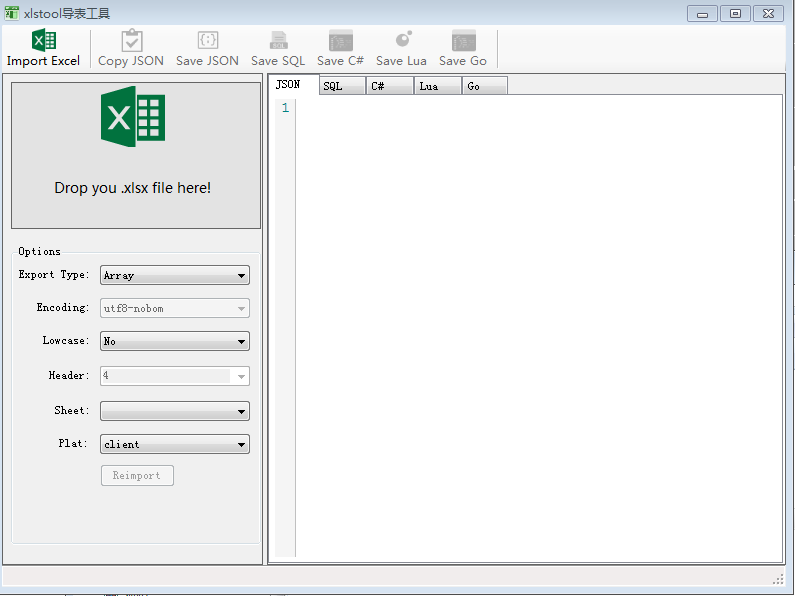
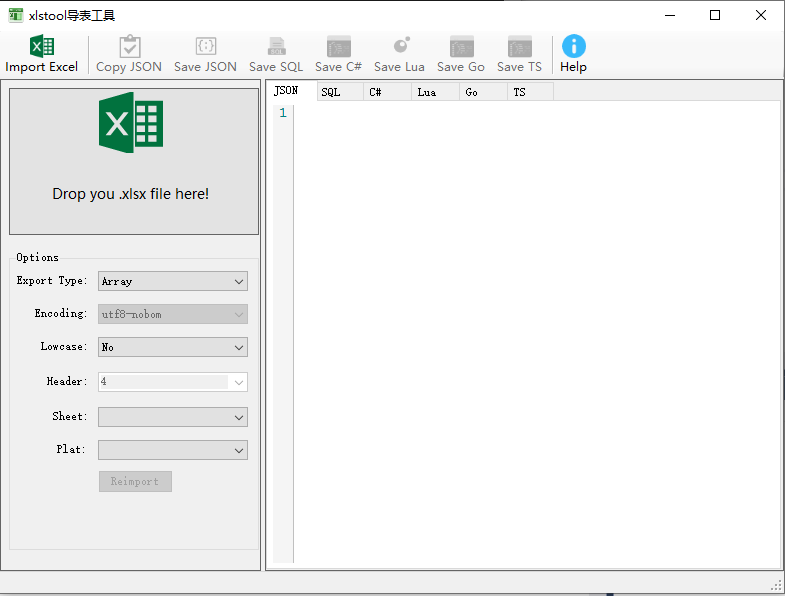
【Excel】update xlstool

Changed region(s): [[0.0, 0.0, 1.0, 1.0], [0.0611, 0.302, 0.2752, 0.3322], [0.0611, 0.7248, 0.0917, 0.755]]

diff --git a/_posts/2019-12-22-Excel导表工具Json_Sql_C#_Lua_Go_TypeScript.md b/_posts/2019-12-22-Excel导表工具Json_Sql_C#_Lua_Go_TypeScript.md
@@ -12,6 +12,8 @@ categories: [Tool]
 
 [项目github]( https://github.com/JumboWu/xlstool): [https://github.com/JumboWu/xlstool]( https://github.com/JumboWu/xlstool)
 
+# xlstool导表工具
+
 ## 主要功能
 
 - 支持读取 Excel 97-2003的 .xls格式和2007的 .xlsx格式；
@@ -21,46 +23,39 @@ categories: [Tool]
 - 把Excel表单转换成Lua table，并保存到一个文本文件中；
 - 把Excel表单转换成PostgreSQL 语句，并保存到一个文本文件中；
 - 把Excel表单转换成CSharp、Go、TypeScript数据结构定义；
+- 把Excel表单转换成csv、tsv文本格式；
 
 ## 命令行参数
 
-* –-excel Required. 输入的Excel文件路径.
+* -i,–-input Required. 输入的Excel文件路径.
 
-* --table Required. 输入的表格sheet标签名称
+* -t,--table Required. 输入的表格sheet标签名称.
 
-* -–json 指定输出的json文件路径.
+* -c,-–code.指定导出格式 json sql cs lua go ts tsv csv
 
-* -–sql 指定输出的SQL文件路径.
+* -h,-–header Required. 表格中有几行是表头.
 
-* -–cs 指定输出的C#数据结构定义的代码文件路径.
+* -e,-–encoding (Default: utf8-nobom) 指定编码的名称.
 
-* -–lua 指定输出的Lua table的代码文件路径.
+* -l,-–lowcase (Default: false) 自动把字段名称转换成小写格式.
 
-* --go 指定输出的Go数据结构定义的代码文件路径.
+* -a,--array 序列化成数组
 
-* --ts 指定输出的TypeScript数据结构定义的代码文件路径.
+* -p,--plat 表格导出平台标识client/server,不填默认双端支持
 
-* -–header Required. 表格中有几行是表头.
-
-* -–encoding (Default: utf8-nobom) 指定编码的名称.
-
-* -–lowcase (Default: false) 自动把字段名称转换成小写格式.
-
-* --array 序列化成数组
-
-* --plat 表格导出平台标识client/server,不填默认双端支持
+* -o,--out 导出文件路径
 
   
 
-  ![命令行](/images/posts/cmd.png)
+  ![命令行](../images/posts/cmd.png)
 
 
 
-例如：**xlstool -–excel ExampleData.xlsx --table 英雄#HeroCfg  -–json HeroCfg  .json -–header 4 -–array true**
+例如：**xlstool -i ExampleData.xlsx -t 英雄#HeroCfg  -c json HeroCfg  .json -h 4 -a true**
 
 ## GUI工具
 
-![GUI](/images/posts/gui.png)
+![GUI](../images/posts/gui.png)
 
 
 
